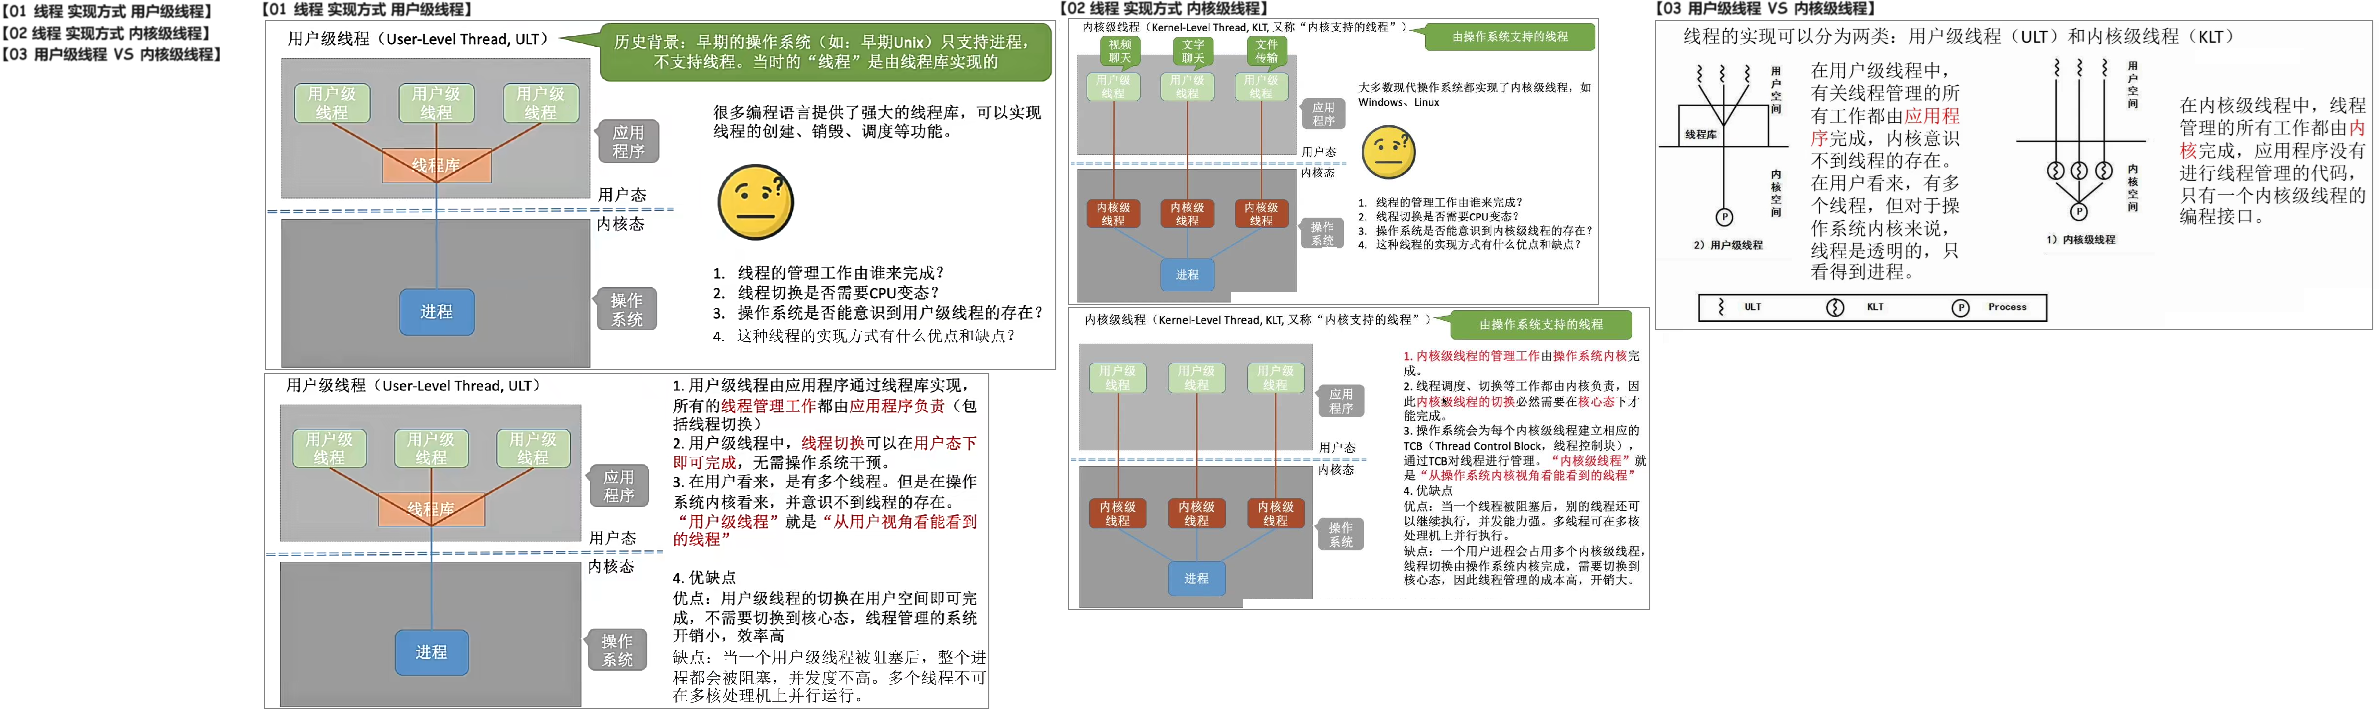
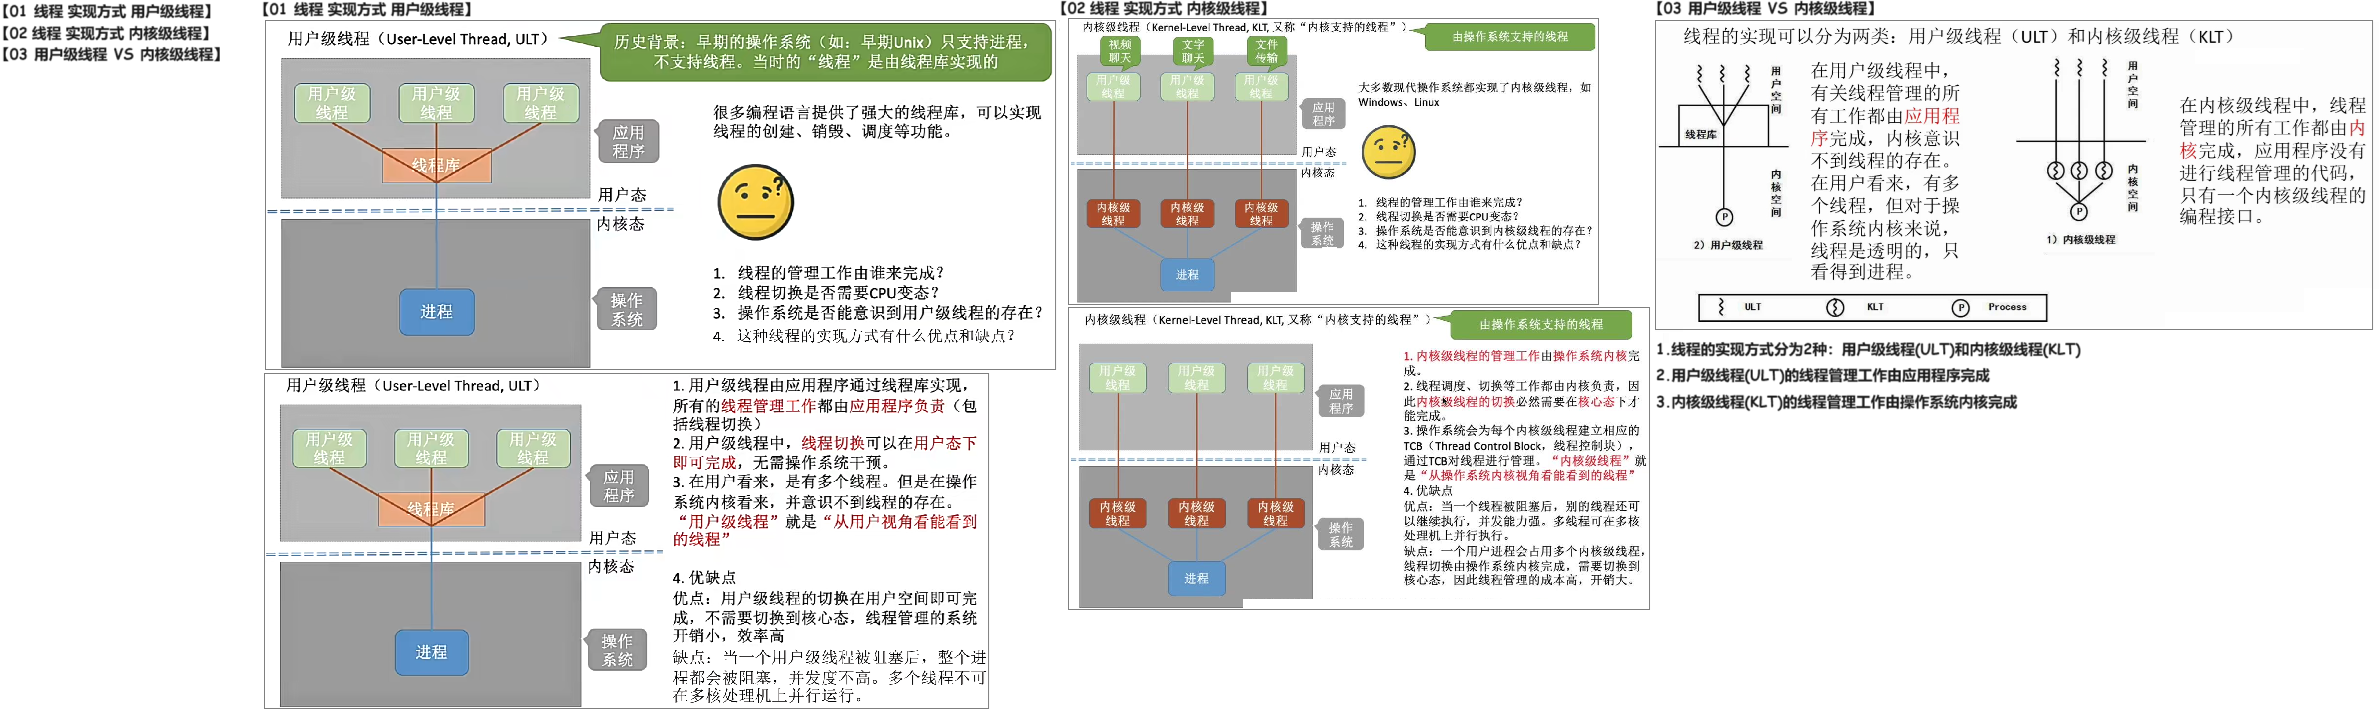
240804

Changed region(s): [[0.6843, 0.4628, 0.871, 0.5863]]

diff --git a/01 初试/01 OS/01 题集/01 820/02 19 5 = 3+2/01 小题 3 = 2 + 1/01 填空题 2/01 填空题01 线程 线程的实现方式 240803/02 Doc.md b/01 初试/01 OS/01 题集/01 820/02 19 5 = 3+2/01 小题 3 = 2 + 1/01 填空题 2/01 填空题01 线程 线程的实现方式 240803/02 Doc.md
@@ -1,6 +1,6 @@
 # 00 背诵
 
-<img src="https://cvp.oss-cn-shanghai.aliyuncs.com/picgo/202408031632159.png" alt="image-20240803163200764" style="zoom:50%;" />
+<img src="https://cvp.oss-cn-shanghai.aliyuncs.com/picgo/202408041705011.png" alt="image-20240804170527718" style="zoom:50%;" />
 
 
 
@@ -10,6 +10,12 @@
 
 
 
-# 02 视频
+# 02 答案
+
+<img src="https://cvp.oss-cn-shanghai.aliyuncs.com/picgo/202408041709577.png" alt="image-20240804170942425" style="zoom:50%;" />
+
+
+
+# 03 视频
 
 <img src="https://cvp.oss-cn-shanghai.aliyuncs.com/picgo/202402231444752.png" alt="image-20240223144417520" style="zoom:50%;" />
